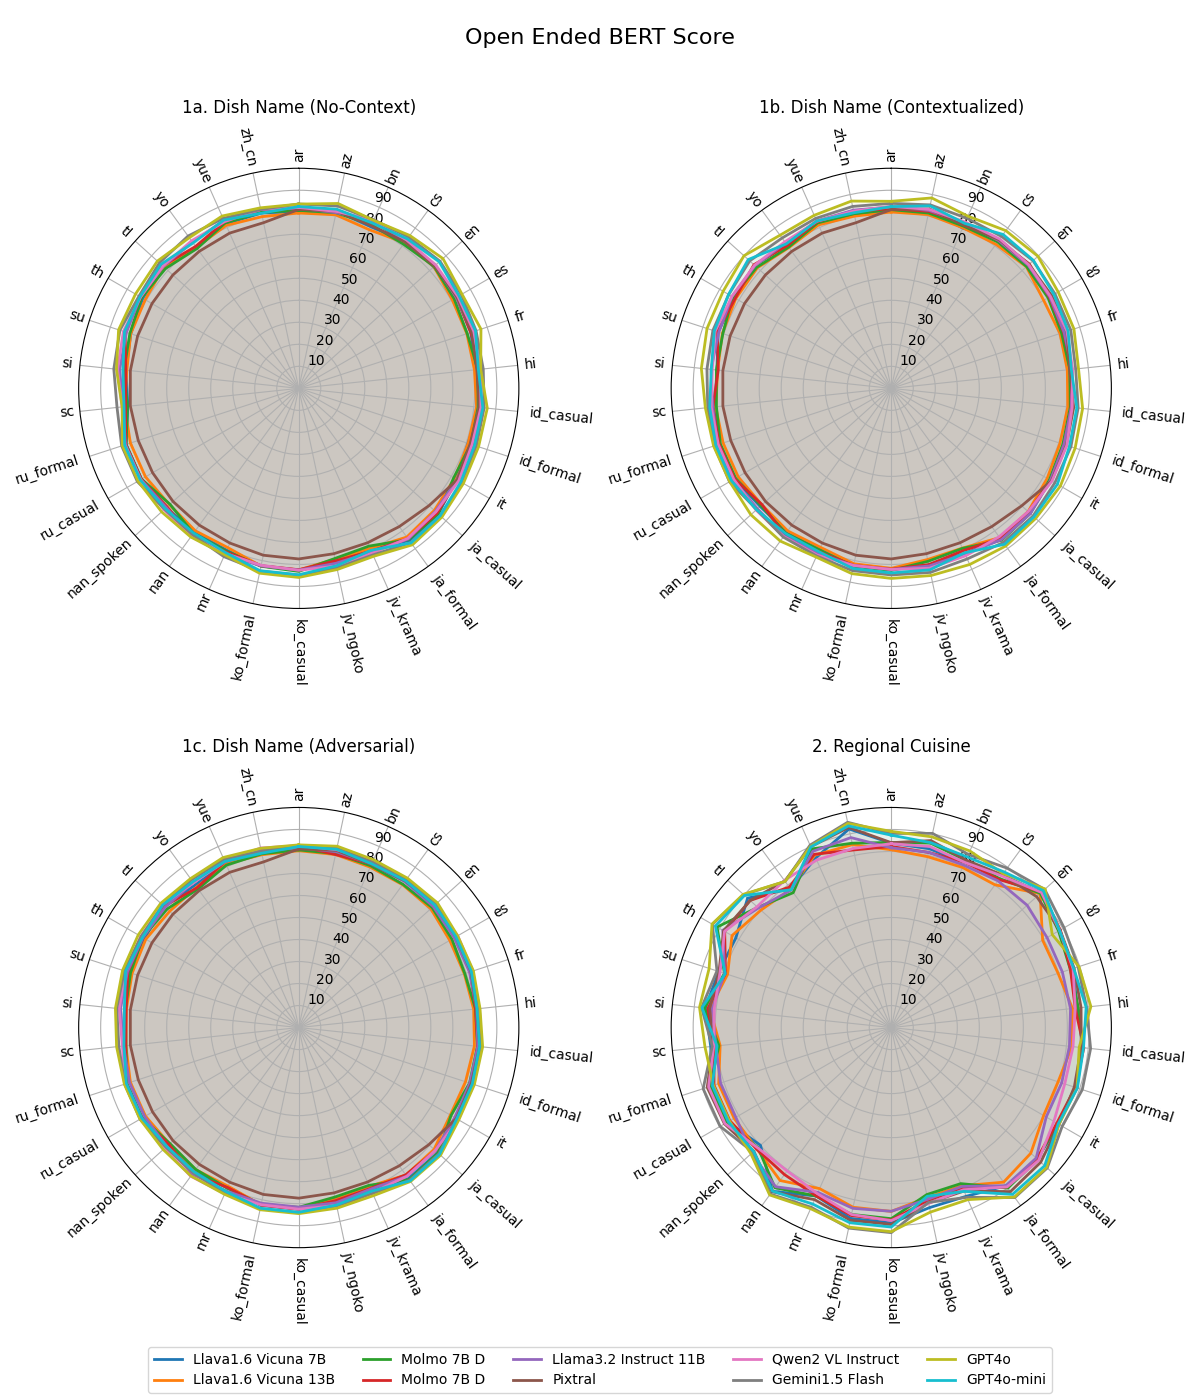
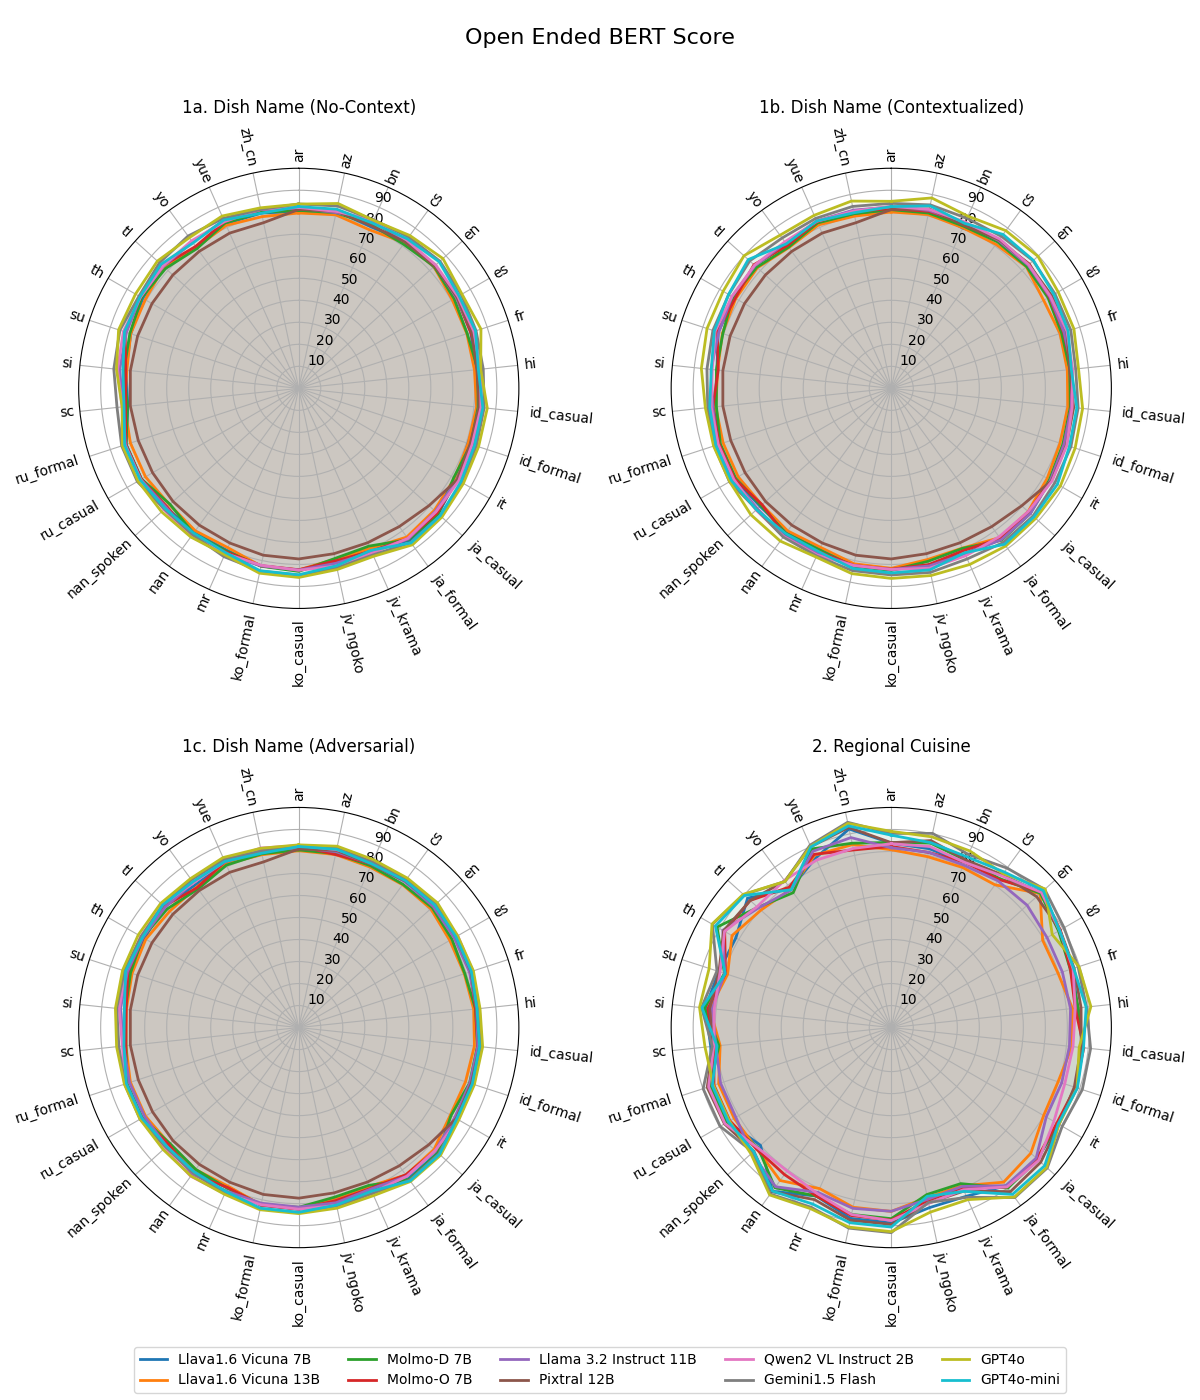
vizualisation: group the language order for better interpretation

diff --git a/evaluation/score/plot/visualization.py b/evaluation/score/plot/visualization.py
@@ -26,7 +26,7 @@ def generate_accuracy_dict(task, vis_type):
     with open('../score.yml', 'r') as file:
         models = yaml.safe_load(file)
     models = models['models']
-    
+
     model_dict = {}
     if vis_type == 'lang':
         if task == 'mc':
@@ -62,12 +62,29 @@ def generate_accuracy_dict(task, vis_type):
                 category_averages = OrderedDict(sorted(category_averages.items()))
                 model_result[category] = category_averages
             model_dict[model] = model_result
-    
+
     return model_dict
 
 
 def plot_radar(models, data, title, ax, task, vis_type):
-    languages = [key for key in data[models[0]].keys() if key != 'avg_score']
+    if vis_type == 'lang':
+        _languages = [
+            # 'bn', 'cs', 'en', 'es', 'fr', 'hi', 'it', 'mr', 'ru_casual', 'ru_formal', 'sc', 'si',  # Indo-European
+            'en', 'es', 'fr',
+            'cs', 'it', 'ru_casual', 'ru_formal',
+            'bn', 'hi', 'mr', 'sc', 'si',  # Indo-European
+            'id_casual', 'id_formal', 'tl', 'jv_krama', 'jv_ngoko', 'su',  # Austronesian
+            'nan', 'nan_spoken', 'yue', 'zh_cn',  # Sino-Tibetan
+            'ja_casual', 'ja_formal',  # Japonic
+            'ko_casual', 'ko_formal',  # Koreanic
+            'th',  # Kra-Dai
+            'yo',  # Niger-Congo
+            'ar',  # Afro-Asiatic
+            'az',  # Turkic
+        ]
+        languages = [key for key in _languages if key in data[models[0]].keys()]
+    else:
+        languages = [key for key in data[models[0]].keys() if key != 'avg_score']
     N = len(languages)
 
     angles = np.linspace(0, 2 * np.pi, N, endpoint=False).tolist()
@@ -97,8 +114,8 @@ def plot_radar(models, data, title, ax, task, vis_type):
         ax.set_yticklabels(['10', '20', '30', '40', '50', '60', '70', '80', '90'])
     elif task == 'oe':
         ax.set_ylim(0, 50)
-        ax.set_yticks([5, 10, 15, 20, 25, 30, 35, 40, 45]) 
-        ax.set_yticklabels(['5', '10', '15', '20', '25', '30', '35', '40', '45']) 
+        ax.set_yticks([5, 10, 15, 20, 25, 30, 35, 40, 45])
+        ax.set_yticklabels(['5', '10', '15', '20', '25', '30', '35', '40', '45'])
     else:
         ax.set_ylim(0, 100)
         ax.set_yticks([10, 20, 30, 40, 50, 60, 70, 80, 90])
@@ -115,25 +132,25 @@ def plot_radar(models, data, title, ax, task, vis_type):
         # Manually set each xticklabel with incremented rotation
         for i, (tick, label) in enumerate(zip(ticks, languages)):
             rotation = base_rotation + i * rotation_increment
-            if rotation < -90:
+            if rotation <= -90:
                 rotation += 180
-            ax.text(tick, ax.get_rmax()*(1.06 + (len(label)-2)*0.02), label, rotation=rotation, size=10, ha='center', va='center')
+            ax.text(tick, ax.get_rmax() * (1.06 + (len(label) - 2) * 0.02), label, rotation=rotation, size=10, ha='center', va='center')
     elif vis_type == 'res':
         for i, (tick, label) in enumerate(zip(ticks, languages)):
-            if i == 0 or i==3:
-                ax.text(tick, ax.get_rmax()*1.05, label, size=10, ha='center', va='center')
-            if i == 1 or i==2:
-                ax.text(tick, ax.get_rmax()*1.05, label, size=10, ha='left', va='center')
-            if i == 4 or i==5:
-                ax.text(tick, ax.get_rmax()*1.05, label, size=10, ha='right', va='center')
+            if i == 0 or i == 3:
+                ax.text(tick, ax.get_rmax() * 1.05, label, size=10, ha='center', va='center')
+            if i == 1 or i == 2:
+                ax.text(tick, ax.get_rmax() * 1.05, label, size=10, ha='left', va='center')
+            if i == 4 or i == 5:
+                ax.text(tick, ax.get_rmax() * 1.05, label, size=10, ha='right', va='center')
     else:
         for i, (tick, label) in enumerate(zip(ticks, languages)):
             if i == 0:
-                ax.text(tick, ax.get_rmax()*1.05, label, size=10, ha='center', va='center')
-            if i in [1,2,3,4]:
-                ax.text(tick, ax.get_rmax()*1.05, label, size=10, ha='left', va='center')
-            if i in [5,6,7,8]:
-                ax.text(tick, ax.get_rmax()*1.05, label, size=10, ha='right', va='center')
+                ax.text(tick, ax.get_rmax() * 1.05, label, size=10, ha='center', va='center')
+            if i in [1, 2, 3, 4]:
+                ax.text(tick, ax.get_rmax() * 1.05, label, size=10, ha='left', va='center')
+            if i in [5, 6, 7, 8]:
+                ax.text(tick, ax.get_rmax() * 1.05, label, size=10, ha='right', va='center')
 
     return handles, labels
 
@@ -169,7 +186,7 @@ def save_radar(task, vis_type):
     else:
         fig.suptitle('Open Ended BERT Score', fontsize=16)
 
-    fig.legend(handles_list, list(map(MODEL_NAME_DICT.get, labels_list)), loc='lower center', ncol=len(models)//2)
+    fig.legend(handles_list, list(map(MODEL_NAME_DICT.get, labels_list)), loc='lower center', ncol=len(models) // 2)
     plt.tight_layout(rect=[0, 0, 1, 0.98])
     plt.subplots_adjust(bottom=0.07)
     plt.savefig(f'radar_{task}_{vis_type}')
